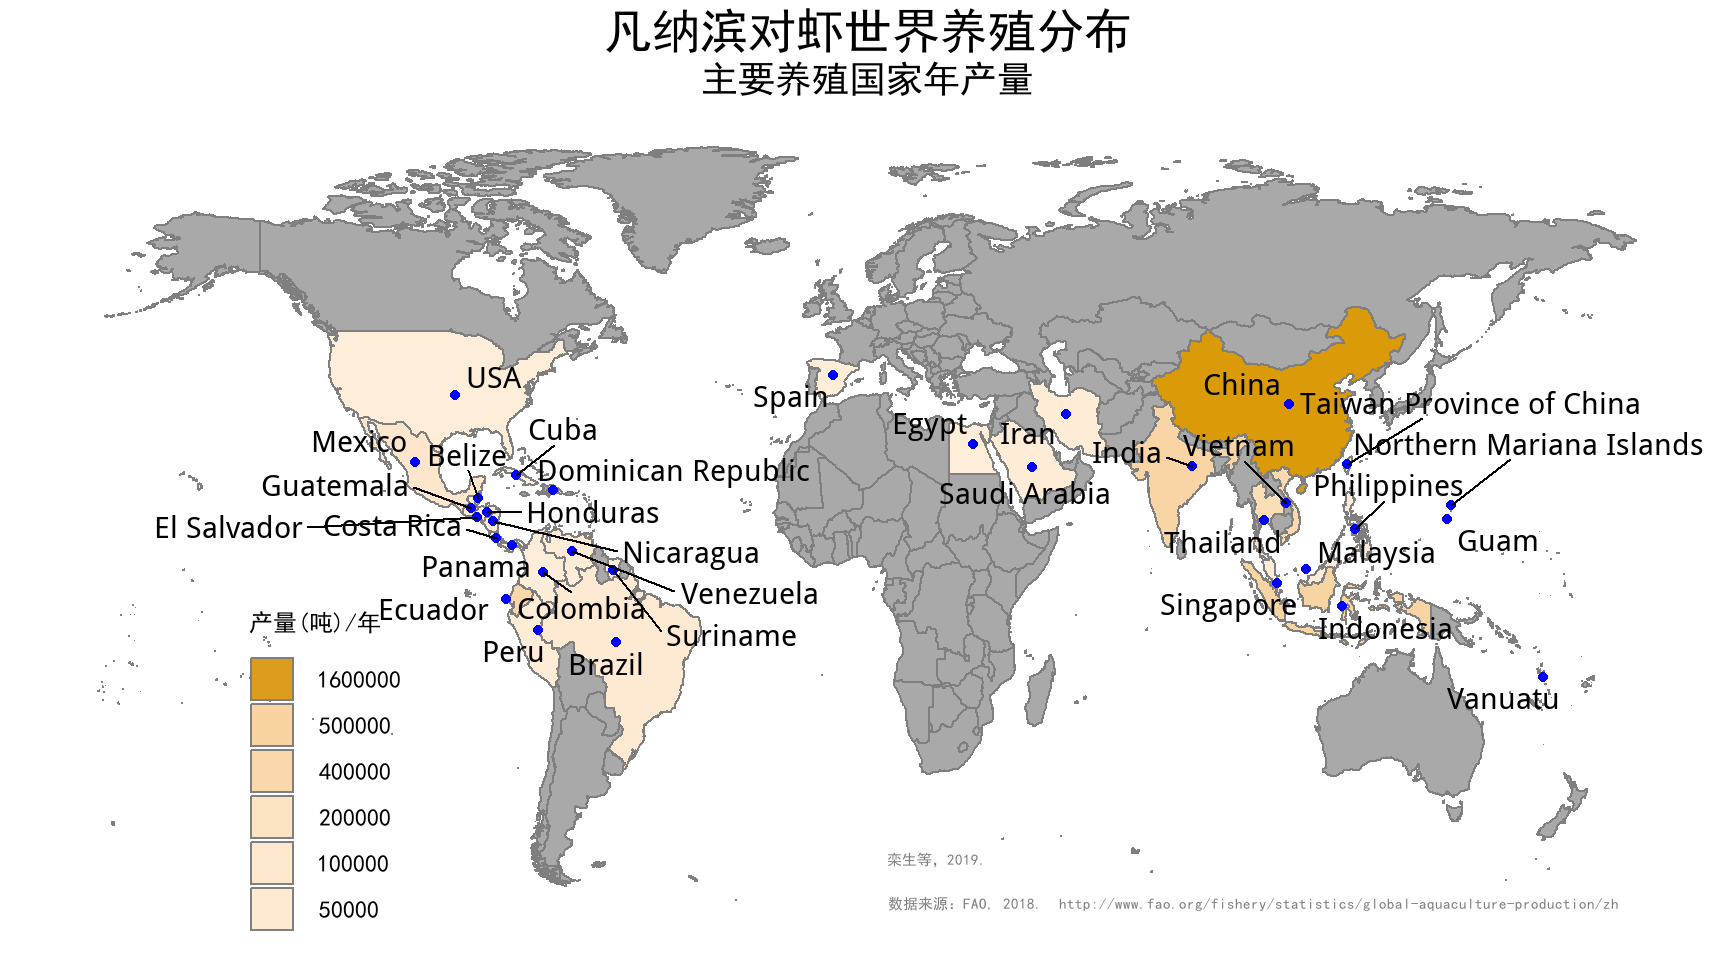
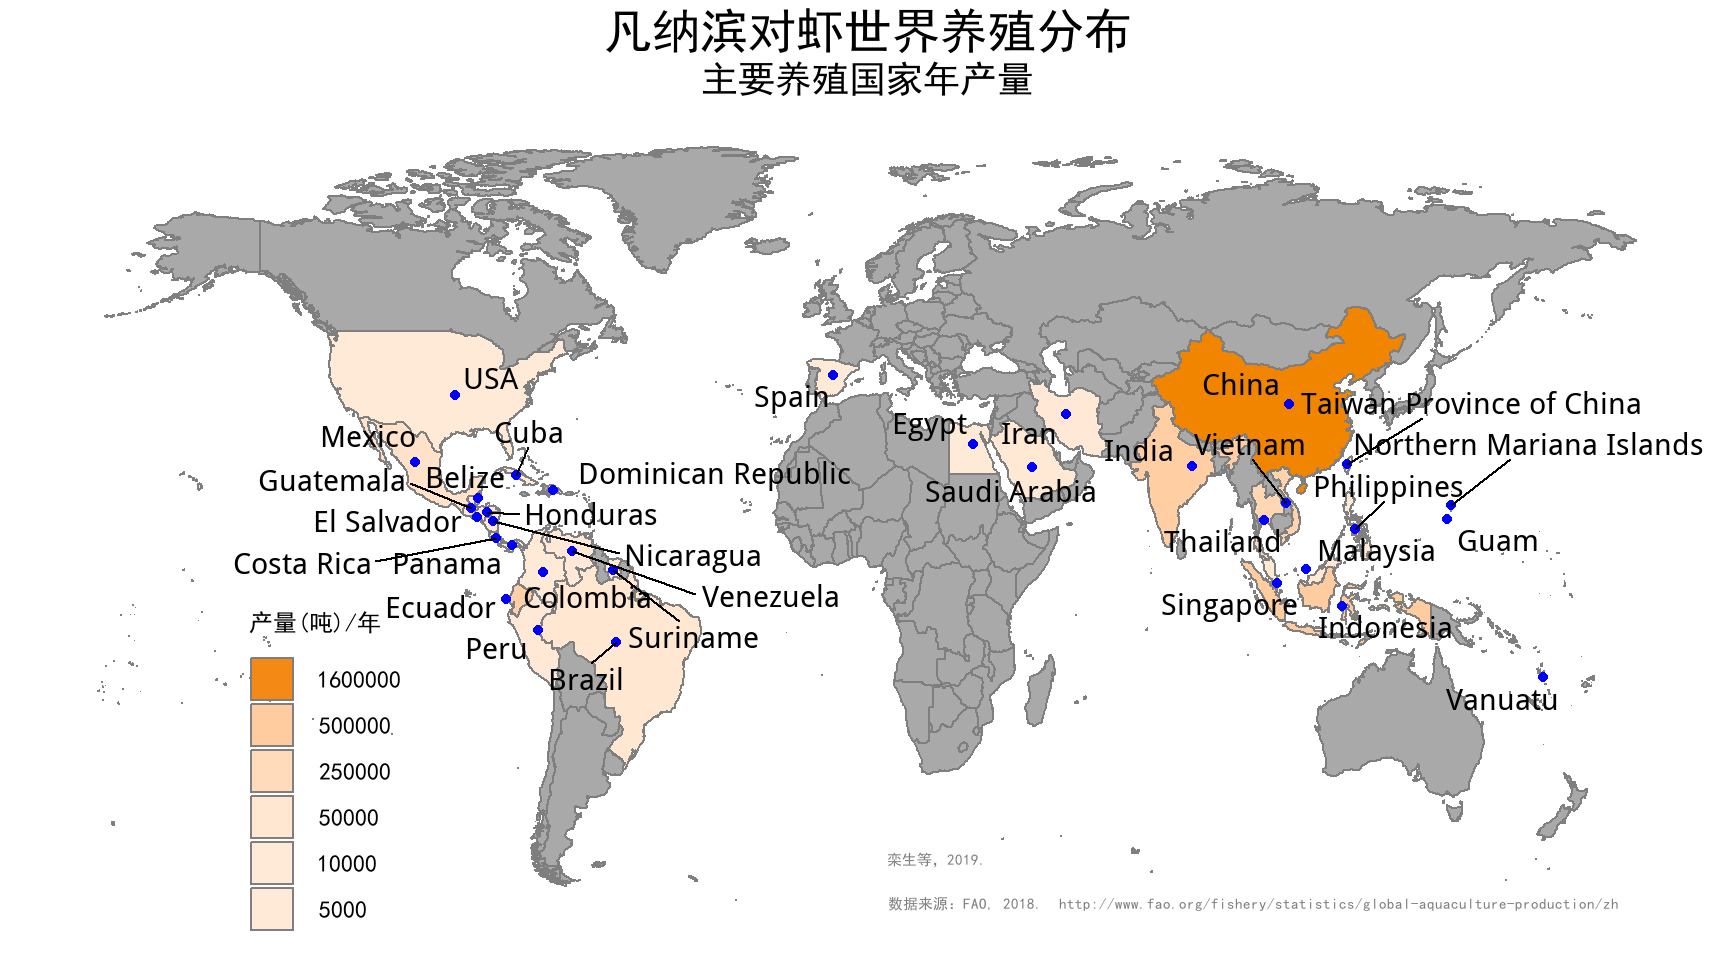
Uploading the html and map figure.

diff --git a/content/post/2019-05-13-mapping-the-shrimp-production-on-the-world-map.html b/content/post/2019-05-13-mapping-the-shrimp-production-on-the-world-map.html
@@ -16,21 +16,20 @@ header:
 
 
 
-<p>最近，Boss交给了一个任务，把各国凡纳滨对虾的产量在世界地区上标注一下。很有挑战性！</p>
+<p>最近，Boss交给了一个任务，把各国凡纳滨对虾的产量在世界地区上标注一下。</p>
+<p>对于生成地图还是很有兴趣的。没想到竟然很有挑战性！</p>
 <p>之前看过几个blog，印象中有不少包可以完成这个任务。</p>
-<p>但最后发现，还是ggplot2包比较好用。为了画地图，用到的包主要有：
-* maps 提供世界地图数据
-* ggrepel 重拍地图上的国家名称，消除重叠
-* showtext和sysfonts 在图上可以使用中文字体如黑体
-* data.table 数据清洗</p>
+<p>但最后发现，还是ggplot2包比较好用。为了画地图，用到的包主要有：</p>
+<ul>
+<li>maps 提供世界地图数据。</li>
+<li>ggrepel 重排地图上的国家名称，消除名称间的重叠现象。</li>
+<li>showtext和sysfonts 确保在生成的地图上可以使用中文字体如黑体。</li>
+<li>data.table 数据清洗，生成符合要求的地图数据集，供ggplot2调用。</li>
+</ul>
 <div id="section" class="section level2">
-<h2>1. 读取全球南美白对虾产量</h2>
-<p>从<a href="http://www.fao.org/fishery/statistics/global-aquaculture-production/zh">FAO</a>下载全球水产产量数据。</p>
-<p>在TS_FI_AQUACULTURE.csv在文件中，南美白对虾的3位代码是“PNV”。</p>
-<p>统计2016年全球各个国家南美白对虾养殖产量。</p>
-<p>由于在上述文件中，国家也是用代码表示。</p>
-<p>因此从CL_FI_COUNTRY_GROUPS.csv文件中读取国家信息。</p>
-<p>其中Name_En和Name_Cn分别表示英文和中文国家名称</p>
+<h2>1. 获取世界各国凡纳滨对虾产量数据</h2>
+<p>从<a href="http://www.fao.org/fishery/statistics/global-aquaculture-production/zh">FAO</a>下载世界各国所有水产养殖种类的产量数据。选择下载csv格式数据集。</p>
+<p>解压缩后，产量数据在TS_FI_AQUACULTURE.csv文件中。凡纳滨对虾的产量数据，可以通过其3位种类代码是“PNV”进行查找。当前可以获得的最新即2016年的产量数据。</p>
 <pre class="r"><code>world_aquaculture_production_dt &lt;-
   fread(
     input = &quot;datasets/Aquaculture_2018.1.2/TS_FI_AQUACULTURE.csv&quot;,
@@ -42,8 +41,10 @@ species_3alpha_code &lt;- &quot;PNV&quot;
 world_PNV_production_dt &lt;-
   world_aquaculture_production_dt[SPECIES %chin% species_3alpha_code]
 world_PNV_production_2016_dt &lt;-
-  world_PNV_production_dt[YEAR == 2016]
-#读取国家信息
+  world_PNV_production_dt[YEAR == 2016]</code></pre>
+<p>凡纳滨对虾在海水、淡水和半咸水中都可以养殖，因此在统计世界各个国家产量时，需要累加在不同养殖环境下的产量。</p>
+<p>由于在TS_FI_AQUACULTURE.csv文件中，国家列（COUNTRY）是用代码表示。因此需要从CL_FI_COUNTRY_GROUPS.csv文件中匹配UN_Code列查询国家名称等信息。其中Name_En和Name_Cn分别表示英文和中文国家名称。</p>
+<pre class="r"><code>#读取国家信息
 country_group_dt &lt;-
   fread(
     input = &quot;datasets/Aquaculture_2018.1.2/CL_FI_COUNTRY_GROUPS.csv&quot;,
@@ -97,9 +98,8 @@ setnames(PNV_production_2016_per_country_dt,
 <h2>2.绘制地图</h2>
 <div id="section-2" class="section level3">
 <h3>2.1 获取地图数据</h3>
-<p>map_data()函数从maps包中获取地区数据。</p>
-<p>其中long和lat分别表示经、纬度。</p>
-<p>region与国家对应。group这一列很重要，在绘图时需要指定。</p>
+<p>利用map_data()函数从maps包中获取地图数据。其中long和lat分别表示经、纬度。</p>
+<p>地图数据中region列与国家对应。group这一列很重要，在绘图时需要指定。</p>
 <pre class="r"><code>#获取世界地图数据
 map_world_dt &lt;- as.data.table(map_data(&#39;world&#39;))
 map_world_dt[1:20]</code></pre>
@@ -124,7 +124,13 @@ map_world_dt[1:20]</code></pre>
 ## 18:  74.37217 37.15771     2    19 Afghanistan      &lt;NA&gt;
 ## 19:  74.37617 37.13735     2    20 Afghanistan      &lt;NA&gt;
 ## 20:  74.49796 37.05722     2    21 Afghanistan      &lt;NA&gt;</code></pre>
-<p>subregion貌似与州或者省份对应。我们来看一下美国的各个州。貌似并没有把50个州全部标注出来。</p>
+<p>subregion貌似与州或者省份对应。我们来看一下美国的各个州。貌似subregion列并没有包括全部50个州。</p>
+<p>对地图数据进行清洗，主要包括：</p>
+<ul>
+<li>将台湾明确为中国的一个省。</li>
+<li>在地图中删除南极洲数据。因为凡纳滨对虾为高温物种，不可能在此养殖。</li>
+<li>美国阿拉斯基地区靠近北极圈，温度太低，也不可能养殖凡纳滨对虾。因此在绘制地区时，不把该地区标注为可养殖地区。</li>
+</ul>
 <pre class="r"><code>unique(map_world_dt[region %chin% c(&quot;USA&quot;)]$subregion)</code></pre>
 <pre><code>##  [1] &quot;Hawaii&quot;              &quot;Florida&quot;             &quot;13&quot;                 
 ##  [4] &quot;16&quot;                  &quot;Texas&quot;               &quot;Louisiana&quot;          
@@ -147,8 +153,9 @@ map_world_dt[subregion %chin% c(&quot;Alaska&quot;), region:= c(&quot;USANoDraw&
 </div>
 <div id="faomaps" class="section level3">
 <h3>2.2 统一FAO数据与maps包中的国家名称</h3>
-<p>从FAO下载的数据，国家命名跟maps包中的国家命名可能会不一致。</p>
-<p>需要找出二者间国家名称的差异，并把FAO数据中国家名称修改为maps包国家名称。</p>
+<p>从FAO下载的数据，部分国家名跟maps包中的国家名不一致。需要找出这些国家，并把FAO数据中国家名称修改为maps包国家名称。</p>
+<p>把凡纳滨对虾产量数据合并到地图数据集中。</p>
+<p>计算每个国家的经纬度均值，生成一个新的数据集，用于在地图中定位国家名字的显示位置。</p>
 <pre class="r"><code>#查找名称不一致的国家
 FAO_nomatched_country_name_v &lt;-
   PNV_production_2016_per_country_dt$Country[!(PNV_production_2016_per_country_dt$Country %in% unique(map_world_dt$region))]
@@ -157,7 +164,7 @@ FAO_nomatched_country_name_v</code></pre>
 ## [3] &quot;Iran (Islamic Rep. of)&quot;   &quot;Korea, Republic of&quot;      
 ## [5] &quot;United States of America&quot; &quot;Northern Mariana Is.&quot;    
 ## [7] &quot;Saint Kitts and Nevis&quot;</code></pre>
-<pre class="r"><code>#根据maps包中国家名称，重新对相应国家命名
+<pre class="r"><code>#根据maps包中的国家名，重新对相应的国家重新命名
 maps_matched_country_name_v &lt;-
   c(
     &quot;Vietnam&quot;,
@@ -170,7 +177,7 @@ maps_matched_country_name_v &lt;-
   )
 PNV_production_2016_per_country_dt[Country %chin% FAO_nomatched_country_name_v, 
                                    Country := maps_matched_country_name_v]
-#把凡纳滨对虾产量数据跟地区数据合并
+#把凡纳滨对虾产量数据跟地图数据合并
 map_world_PNV_production_2016_dt &lt;-
   merge(
     map_world_dt,
@@ -179,7 +186,7 @@ map_world_PNV_production_2016_dt &lt;-
     by.x = &quot;region&quot;,
     by.y = &quot;Country&quot;
   )
-#产量为0的国家设置为NA，这样绘制地图时，这些国家不会上色
+#将产量为0的国家设置为NA，这样绘制地图时，这些国家不会上色
 map_world_PNV_production_2016_dt[Production == 0, Production:=NA]
 #计算国家经纬度均值，用于定位国家名称的显示位置
 map_world_PNV_country_position_2016_dt &lt;-
@@ -198,10 +205,11 @@ map_world_PNV_country_position_2016_dt[1:5]</code></pre>
 </div>
 <div id="section-3" class="section level3">
 <h3>2.2 绘制凡纳滨对虾世界养殖分布图</h3>
-<p>地图中使用黑体。因此需要利用showtext包加载黑体文件。</p>
+<p>地图中的文字使用黑体。因此需要利用showtext包加载黑体文件。</p>
 <p>调用ggplot函数和geom_polygon函数来绘制地图。</p>
-<p>为了防止国家名称重叠，调用ggrepel包中geom_text_repel()函数优化国家名称在地图中的布局。</p>
-<p>生产凡纳滨对虾的国家用金黄色标出来了，给出国家名称，并且加了一个蓝色圆点表示国家位置。</p>
+<p>为了消除可能存在的国家名重叠的问题，调用ggrepel包中geom_text_repel()函数优化国家名在地图中的布局。</p>
+<p>在地图中，颜色的深浅，表示产量的高低。产量越高，颜色越深。</p>
+<p>国家名，根据map_world_PNV_country_position_2016_dt数据集中的平均经纬度定位显示，并且加了一个蓝色圆点。</p>
 <pre class="r"><code>font_add(family = &quot;heiti&quot;, regular = &quot;simhei.ttf&quot;)
 showtext_auto()
 ggplot(map_world_PNV_production_2016_dt,
@@ -209,9 +217,9 @@ ggplot(map_world_PNV_production_2016_dt,
   geom_polygon(aes(fill = Production),color=&quot;grey50&quot;) +
   #国家绘制为金黄色
   scale_fill_gradient(
-    low = &quot;#feedd9&quot;,  ##f3f8f1 绿色
-    high = &quot;#db9a08&quot;,  ##228b22
-    breaks = c(50000, 100000, 200000, 400000, 500000, 1600000),
+    low = &quot;#ffead8&quot;,  ##f3f8f1 绿色
+    high = &quot;#f28500&quot;,  ##228b22
+    breaks = c(5000, 10000, 50000, 250000, 500000, 1600000),
     space = &quot;Lab&quot;,
     na.value = &quot;#a9a9a9&quot;,
     guide = &quot;colourbar&quot;,
